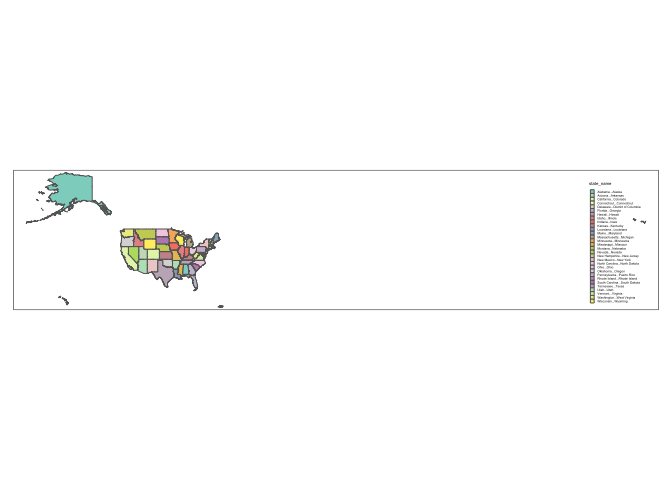
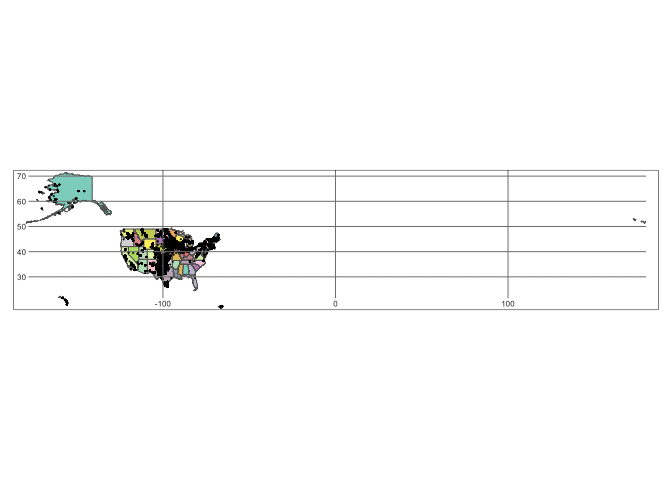
change libraries to include=FALSE

Changed region(s): [[0.0312, 0.3438, 0.9688, 0.6562], [0.0312, 0.3438, 0.125, 0.4375], [0.75, 0.625, 0.7812, 0.6562]]

diff --git a/analysis.md b/analysis.md
@@ -5,14 +5,6 @@ Sarah Tang
 Set Up
 ======
 
-``` r
-library(tidyverse)
-library(ggplot2)
-library(sf)
-library(tmap)
-library(USAboundaries)
-```
-
 Introduction
 ------------
 
@@ -26,7 +18,6 @@ Loading in files
 ``` r
 wind_turbines <- st_read("uswtdbSHP/uswtdb_v1_2_20181001.shp", quiet=TRUE)
 whooping_crane_corridors <- st_read("WHCR_corridors/WHCR_corridors.shp", quiet=TRUE)
-#whooping_crane <- st_read("WhoopingCrane/WhoopingCraneHabitat.shp", quiet=TRUE)
 
 wind_turbines
 ```
@@ -71,10 +62,6 @@ whooping_crane_corridors
     ## 8  0       50  E POLYGON ((-38234.65 -132200...
     ## 9  0       50  W POLYGON ((-101020.2 -132200...
 
-``` r
-#whooping_crane
-```
-
 Mapping Wind Turbines
 =====================
 
@@ -86,10 +73,6 @@ tm_shape(wind_turbines) + tm_dots()
 ```
 
 ![](analysis_files/figure-markdown_github/unnamed-chunk-3-1.png)
-
-``` r
-#todo add map overlay on this
-```
 
 ``` r
 land <- us_states()
@@ -145,7 +128,10 @@ tmap_mode(mode = "plot") #change mode to plot
 
 ``` r
 tm_shape(land) +
-  tm_polygons("state_name", lengend.show = FALSE)
+  tm_polygons("state_name", legend.show = FALSE) +
+  tm_shape(wind_turbines) +
+  tm_dots() +
+  tm_grid(projection = "longlat", labels.size = .5, n.x = 5, n.y = 5)
 ```
 
     ## Warning: Number of levels of the variable "state_name" is 52, which is
@@ -165,6 +151,9 @@ ggplot(whooping_crane_corridors) + geom_sf() + ggtitle("Whooping Crane Migration
 
 Are there overlaps in the location of wind turbine sites and whooping crane migratory patterns?
 -----------------------------------------------------------------------------------------------
+
+Other bird populations?
+=======================
 
 TODO:
 =====
